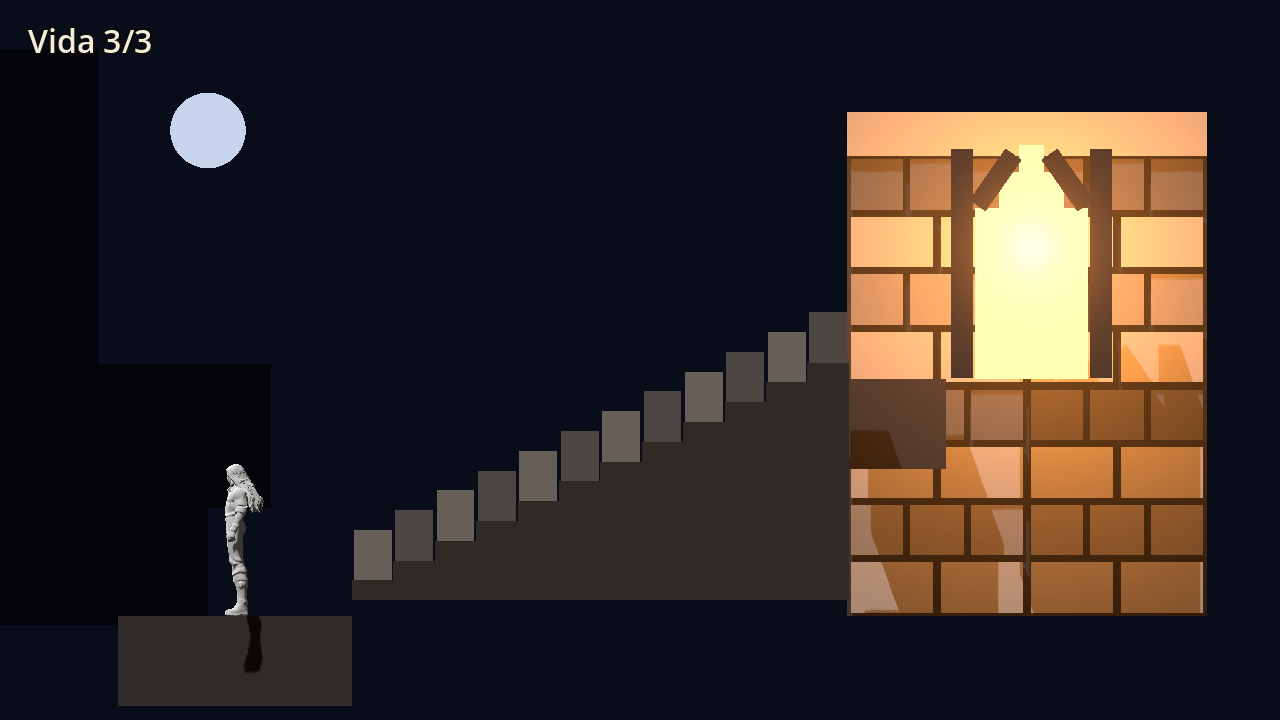
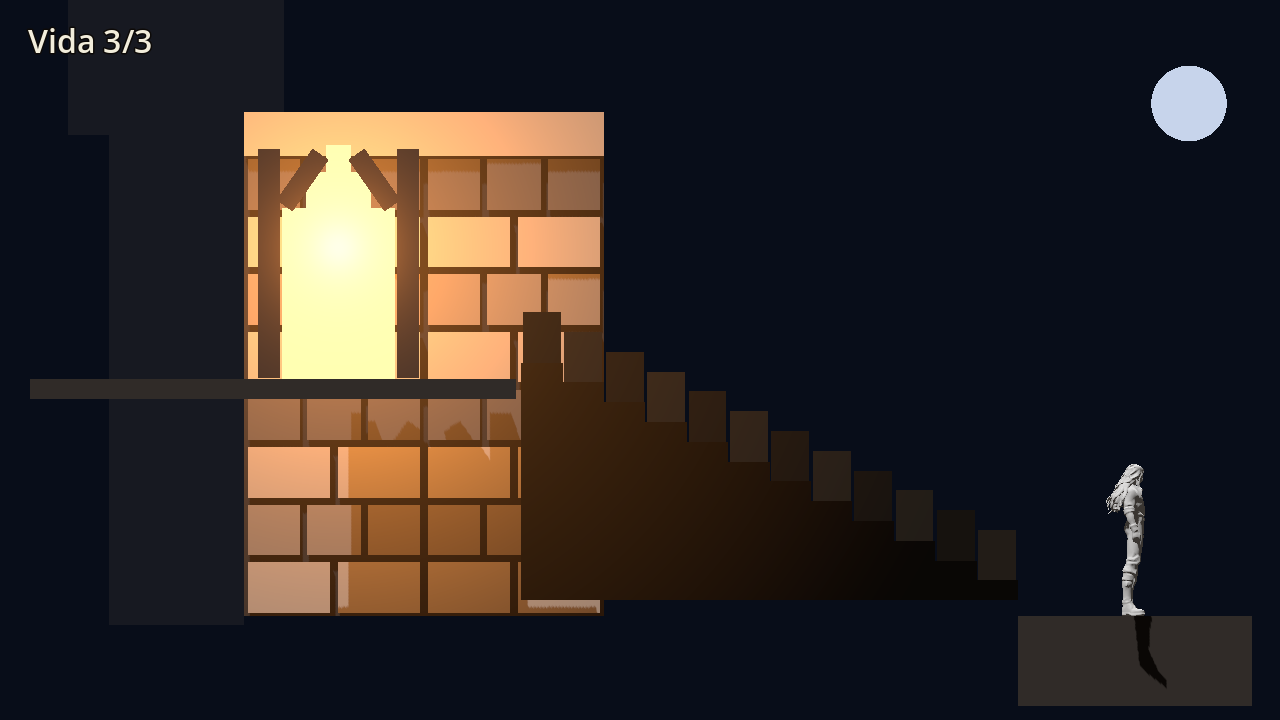
Inverte a escadaria do prólogo para nascer à direita e subir com a seta esquerda.
A prancha Bloodlines, de Revned, passa a orientar a composição da primeira área.

diff --git a/MD-usario/relatorios/15-escadaria-exterior.md b/MD-usario/relatorios/15-escadaria-exterior.md
@@ -2,11 +2,19 @@
 
 Data: 20/11/2026. Godot 4.7.2 e Blender 5.3.0. A cena para o F6 é `scenes/verification/15_escadaria_exterior.tscn`. O F6 do editor não foi pressionado. A janela abriu por script, em `tests/capturar_15.tscn`. O percurso rodou em `tests/verificar_escadaria_15.gd`, com `APPDATA` em `tests/dados_15`. O F5 continua em `scenes/verification/main.tscn`. A cena 14 continua sem a saída da esquerda.
 
+A atualização 15-B inverteu o sentido da subida a partir da prancha “Final Stage: Bloodlines”. O prompt está em `MD-usario/prompts/15b-referencia-do-prologo.md`.
+
+## Referência
+
+A prancha de consulta é `assets-exemple-2d/Final Stage - _Bloodlines_.png`. O mapa é de Revned, em [Revned’s Video Game Maps](https://revned77.github.io/games/SymphonyOfTheNight.html). Ela serviu para a disposição dos espaços. O vídeo da abertura não estava disponível: a imagem do disco continua ausente, como ficou registrado na etapa 15-A. As duas capturas abaixo são do Catlenight, não da prancha.
+
+A faixa de baixo pede a sequência exterior, patamar, salão e trono. Nesta entrega entram a escadaria e a passagem para o vestíbulo já existente. O salão do trono, o espaço superior alongado e o espaço superior em degraus ficam anotados em `docs/GAME_DESIGN.md`. A prancha não define como se entra neles.
+
 ## Onde a passagem cabe
 
-O piso do vestíbulo vai de X = −6 a X = 6, com o topo em Y = 0. A sacada ocupa X de −5,75 a −3,55 e o topo em Y = 2,350. Embaixo dela o corpo de 1,70 m passa. A cantaria fica em Z = −2,25 e não tem colisão. Não havia volume bloqueando a borda esquerda do piso.
+O piso do vestíbulo vai de X = −6 a X = 6, com o topo em Y = 0. A sacada ocupa X de −5,75 a −3,55 e o topo em Y = 2,350. A cena 15 acrescenta `Vestibulo/PisoDaEntrada`, de X = −9,80 a X = −5,90, no mesmo topo. Esse trecho só existe nesta cena. O vestíbulo da cena 14 não muda.
 
-A saída nova, só na cena 15, é `Vestibulo/SaidaEsquerda`, em (−5,65, 1,10, 0), com volume 0,80 × 2,40 × 1,40. A chegada de volta ao castelo é `Vestibulo/ChegadaDaEscadaria`, em (−4,20, 0, 0), à direita desse volume. A porta da sacada, `Vestibulo/VaoDaCapela/Passagem`, continua levando à Capela da Lua.
+A saída, só na cena 15, é `Vestibulo/SaidaEsquerda`, em (−5,35, 1,10, 0), com volume 0,80 × 2,40 × 1,40. A chegada vinda da escadaria é `Vestibulo/ChegadaDaEscadaria`, em (−7,40, 0, 0), à esquerda desse volume e sobre o piso novo. Segurar a seta esquerda depois de entrar afasta o corpo do gatilho. A volta é a seta direita, de encontro a esse volume. A porta da sacada continua levando à Capela da Lua.
 
 ## O lance
 
@@ -16,34 +24,42 @@ O editável é `arte-fonte/blender/escadaria_exterior.blend`, gerado por `arte-f
 - Comprimento horizontal: 5,520 m.
 - Inclinação: 25,56°.
 
-No Blender, X corre a subida, Z é a altura e o perfil da câmera fica em Y positivo, que o glTF leva para Z negativo no Godot. A mureta de cada degrau fica desse lado, atrás das pernas.
+No Blender, X corre a subida do molde, Z é a altura e o perfil da câmera fica em Y positivo, que o glTF leva para Z negativo no Godot. A mureta de cada degrau fica desse lado, atrás das pernas.
 
-O exportador grava só o lance em `assets/models/environment/exterior/lance_de_escada.glb`. A importação veio antes da medida final. A caixa local tem X de 0 a 5,520, Y de 0 a 3,200 e Z de −0,390 a −0,020. São 36 malhas e nenhum corpo físico. A face voltada para a câmera para em Z = −0,020, então as pernas em Z = 0 ficam na frente.
+O exportador grava só o lance em `assets/models/environment/exterior/lance_de_escada.glb`. A caixa local do GLB tem X de 0 a 5,520, Y de 0 a 3,200 e Z de −0,390 a −0,020. São 36 malhas e nenhum corpo físico. Na cena, `EscadariaExterior/Lance/Degraus` usa escala X = −1 e fica 0,180 m acima da origem, então a subida visível corre para −X e a face da câmera continua atrás das pernas.
 
 ## Quem desenha e quem sustenta
 
-A malha dos degraus é `EscadariaExterior/Lance/Degraus`. Esse nó instancia o GLB. Os blocos visíveis se chamam `Degrau_0` a `Degrau_11`. As juntas são `Junta_*` e a mureta é `Mureta_*`. O nó está 0,180 m acima da origem do lance, para o piso visível encontrar a bota.
+A malha dos degraus é `EscadariaExterior/Lance/Degraus`. Os blocos visíveis se chamam `Degrau_0` a `Degrau_11`. As juntas são `Junta_*` e a mureta é `Mureta_*`.
 
-A forma que sustenta o personagem é `EscadariaExterior/Lance/Rampa/Colisao`, um `BoxShape3D` de 6,119 × 0,400 × 2,400 m. A face de cima liga (0, 0) a (5,520, 2,640): é a mesma reta das quinas e encontra os dois patamares sem degrau. Os patamares são `PatamarInferior/Colisao` e `PatamarSuperior/Colisao`. A caixa do corpo tem 0,80 m de largura e o fundo horizontal. Na subida, o canto de baixo encosta na rampa e a origem dos pés fica cerca de 0,190 m acima dessa face. O deslocamento de 0,180 m da malha aproxima o piso visível dessa sola.
+A forma que sustenta o personagem é `EscadariaExterior/Lance/Rampa/Colisao`, um `BoxShape3D` de 6,119 × 0,400 × 2,400 m. A face de cima liga (0, 0) a (−5,520, 2,640), no espaço da sala. Os patamares são `PatamarInferior/Colisao`, à direita, e `PatamarSuperior/Colisao`, à esquerda. A caixa do corpo tem 0,80 m de largura. Na subida, a origem dos pés fica cerca de 0,190 m acima da face da rampa. O deslocamento de 0,180 m da malha aproxima o piso visível dessa sola.
 
-A passagem para o vestíbulo é `EscadariaExterior/Saida`. O destino é `Vestibulo` e a chegada é `Vestibulo/ChegadaDaEscadaria`. A volta usa `Vestibulo/SaidaEsquerda` e chega em `EscadariaExterior/Chegada`, no patamar de cima, em (6,350, 2,640, 0) local. A sala inteira está em X = −22, então esse marco fica em X = −15,650 no mundo.
+A passagem para o vestíbulo é `EscadariaExterior/Saida`, em X local = −7,55. O destino é `Vestibulo` e a chegada é `Vestibulo/ChegadaDaEscadaria`. A propriedade `sentido_x` vale −1: o volume só troca de sala quando o corpo anda para −X. Andar para a direita, na descida, atravessa o mesmo vão sem voltar ao vestíbulo. A volta chega em `EscadariaExterior/Chegada`, no patamar de cima, em (−9,050, 2,640, 0) local. A sala está em X = −22.
+
+O portão iluminado fica nesse patamar. A torre é `TorreDistante`, atrás do plano de jogo e à esquerda do vão. A lua é `Lua`, no céu à direita.
 
 ## O que aparece na tela
 
-O nascimento está em `MD-usario/relatorios/evidencias/15-primeira-vista-do-castelo.png`. Os pés ficam em X = −23,200, Y = 0,000 e Z = 0, com o perfil para +X. A câmera está em X = −18,80 e Y = 2,85, `Size` = 8, quadro 1280×720. Dá para achar o portão de imediato: é o vão amarelo no alto, à direita, sobre a cantaria. A linha dos degraus liga o patamar a esse vão. A lua e as silhuetas ficam atrás do plano de jogo.
+As duas imagens são capturas do Catlenight, em 1280×720. A referência de Revned não foi colada nelas.
 
-A subida está em `15-subida-ao-portao.png`. Os pés pararam em X = −20,060, Y = 1,120 e Z = 0. A sola aparece apoiada na quina do degrau, com a perna inteira na frente da mureta. O que ainda lê como bloco: a emenda do patamar de cima com a parede, à esquerda do vão, e as silhuetas distantes, que são caixas escuras no canto.
+O nascimento está em `MD-usario/relatorios/evidencias/15-primeira-vista-do-castelo.png`. Os pés ficam em X = −20,800, Y = 0,000 e Z = 0, com o perfil para −X. A câmera está em X = −26,20 e Y = 2,85, `Size` = 8. O corpo está no patamar inferior direito. A diagonal dos degraus sobe para a esquerda, o vão amarelo marca a entrada e a torre fica atrás dele. A lua está no céu, à direita. A mureta não cobre as botas.
+
+A subida está em `15-subida-ao-portao.png`. Os pés pararam em X = −24,225, Y = 1,256 e Z = 0, depois de soltar a seta esquerda. A sola aparece na quina do degrau, com a perna na frente da mureta. O fim da escada, já no patamar superior, ficou em X = −27,470 e Y = 2,640.
+
+O que ainda lê como bloco: a torre é uma caixa escura com uma cobertura larga, e a lua é um disco, não o crescente da prancha.
 
 ## O percurso
 
-“Novo jogo” deixa “Vida 3/3” e o mapa só com `escadaria_exterior`. Segurar a direita sobe. Soltar no meio mantém o corpo parado. Segurar de novo entra no vestíbulo numa única troca: pés em X = −4,142, Y = 0 e Z = 0, câmera em X = 0. O mapa então mostra a escadaria, o vestíbulo e a ligação `escadaria_exterior-vestibulo`. A esquerda volta numa única troca, com a câmera em X = −18,80 e os pés em Y = 2,640. A descida segue até Y = 0,400, ainda sobre a rampa.
+“Novo jogo” deixa “Vida 3/3” e o mapa só com `escadaria_exterior`. Segurar a esquerda sobe. Soltar no meio mantém o corpo parado, em X = −24,225 e Y = 1,256. Segurar de novo entra no vestíbulo numa única troca: pés em X = −7,458, Y = 0 e Z = 0, câmera em X = 0. O mapa então mostra a escadaria, o vestíbulo e a ligação `escadaria_exterior-vestibulo`.
 
-“Continuar” restaura o altar: pés em X = 47,950 e Y = 0, vida 3/3, salto duplo e as salas `vestibulo`, `galeria` e `capela_da_lua`. O exterior não entra nessa gravação. Sair da capela, descer da sacada e atravessar `Vestibulo/SaidaEsquerda` acrescenta `escadaria_exterior` e a ligação nova, sem apagar as três salas.
+A direita volta numa única troca. Os pés chegam em X = −30,992 e Y = 2,640, no patamar superior, com a câmera em X = −26,20. A mesma seta desce até o patamar de baixo, em X = −21,573 e Y = 0. Z permanece 0.
 
-As fases `primeira`, `continuar`, `novo_mapa` e `legado` de `tests/verificar_mapa_12.gd` deram `RESULTADO ok`, assim como `verificar_portal_14.gd`, `verificar_capela_10.gd` e `verificar_vestibulo_13.gd`.
+“Continuar” restaura o altar: pés em X = 47,950 e Y = 0, vida 3/3, salto duplo e as salas `vestibulo`, `galeria` e `capela_da_lua`. Sair da capela, descer da sacada e atravessar `Vestibulo/SaidaEsquerda` acrescenta `escadaria_exterior` e as ligações `escadaria_exterior-vestibulo`, `vestibulo-galeria` e `vestibulo-capela_da_lua`, sem apagar as três salas. A rota entre vestíbulo, galeria e capela continua jogável.
+
+Os testes do mapa, do portal, da capela e do vestíbulo não foram regravados nesta atualização: os arquivos desses sistemas não mudaram. O percurso e o “Continuar” da cena 15 deram `RESULTADO ok` depois da inversão.
 
 ## Exercício de cinco minutos
 
-Abra `scenes/verification/15_escadaria_exterior.tscn`. No menu **Depurar**, ligue **Formas de colisão visíveis**. Selecione `EscadariaExterior/Lance/Rampa/Colisao`. Rode a cena com F6, suba com a seta direita e solte no meio.
+Abra `scenes/verification/15_escadaria_exterior.tscn`. No menu **Depurar**, ligue **Formas de colisão visíveis**. Selecione `EscadariaExterior/Lance/Rampa/Colisao`. Rode a cena com F6. A seta esquerda sobe; a seta direita desce. Solte no meio para ver a parada.
 
-Na subida, a linha da rampa acompanha as quinas de `Lance/Degraus` e entrega os pés a `PatamarSuperior/Colisao` sem um lábio. Na descida, a mesma linha leva os pés até `PatamarInferior/Colisao`. A malha visível fica 0,180 m acima dessa linha: a sola encontra o piso desenhado, e a linha de depuração fica logo abaixo dele.
+Na subida, a linha da rampa acompanha as quinas de `Lance/Degraus` e entrega os pés a `PatamarSuperior/Colisao`. Na descida, a mesma linha leva os pés até `PatamarInferior/Colisao`. A malha visível fica 0,180 m acima dessa linha.

diff --git a/docs/ROADMAP.md b/docs/ROADMAP.md
@@ -317,12 +317,12 @@ O canto da tela do piloto 08 já mostra “Vida 3/3”. O restante da interface 
 
 | Critério | Status |
 | --- | --- |
-| “Novo jogo” começa no patamar, com o portão já no quadro | Verificado. Pés em X = −23,200, Y = 0,000 e Z = 0. Câmera em X = −18,80, `Size` = 8, 1280×720. Vida 3/3. O mapa mostra só `escadaria_exterior` |
-| Segurar a seta sobe, soltar no meio para, e a descida volta ao patamar | Verificado. Parada em X = −20,060, Y = 1,120 e Z = 0. A descida chegou a Y = 0,400 ainda sobre a rampa |
-| A travessia troca de sala uma vez em cada sentido | Verificado. Entrada em X = −4,142, Y = 0, câmera em X = 0. Volta em X = −15,708, Y = 2,640, câmera em X = −18,80. Z = 0 nos dois |
-| O mapa revela o vestíbulo ao entrar e conserva uma gravação antiga | Verificado. Depois da entrada: `escadaria_exterior` e `vestibulo`, com a ligação. “Continuar” abriu no altar, X = 47,950, com as três salas antigas; a visita acrescentou o exterior |
+| “Novo jogo” começa no patamar inferior direito, com o portão já no quadro | Verificado de novo em 20/11/2026, depois da inversão. Pés em X = −20,800, Y = 0,000 e Z = 0. Perfil para −X. Câmera em X = −26,20, `Size` = 8, 1280×720. Vida 3/3. O mapa mostra só `escadaria_exterior` |
+| A seta esquerda sobe, soltar no meio para, e a seta direita desce | Verificado. Parada em X = −24,225, Y = 1,256 e Z = 0. O fim da escada, no patamar superior, ficou em X = −27,470 e Y = 2,640. A descida chegou a X = −21,573 e Y = 0 |
+| A travessia troca de sala uma vez em cada sentido | Verificado. Entrada em X = −7,458, Y = 0, câmera em X = 0. Volta em X = −30,992, Y = 2,640, câmera em X = −26,20. Z = 0 nos dois. A saída do exterior só dispara andando para −X |
+| O mapa revela o vestíbulo ao entrar e conserva uma gravação antiga | Verificado de novo. Depois da entrada: `escadaria_exterior` e `vestibulo`, com a ligação. “Continuar” abriu no altar, X = 47,950, com as três salas antigas; a visita acrescentou o exterior e manteve `vestibulo-galeria` e `vestibulo-capela_da_lua` |
 | O lance importado não cria colisão | Verificado depois da importação. 36 malhas, 0 corpos físicos. A caixa vai de X = 0 a 5,520, Y = 0 a 3,200 e Z = −0,390 a −0,020 |
-| Testes do mapa, do portal, da capela e do vestíbulo | Verificado. As fases `primeira`, `continuar`, `novo_mapa` e `legado` de `verificar_mapa_12.gd`, mais `verificar_portal_14.gd`, `verificar_capela_10.gd` e `verificar_vestibulo_13.gd`, deram `RESULTADO ok` |
+| A rota vestíbulo, galeria e capela continua no mapa | Verificado nesta atualização pelo “Continuar” da cena 15. As ligações `vestibulo-galeria` e `vestibulo-capela_da_lua` permaneceram. Os scripts 12, 14, 10 e 13 não foram repetidos |
 | F6 no editor | Pendente. A cena executada foi `scenes/verification/15_escadaria_exterior.tscn`, aberta pelo teste, sem o atalho do editor |
 
 ## 15-A — Referência visual da abertura
@@ -335,7 +335,20 @@ O canto da tela do piloto 08 já mostra “Vida 3/3”. O restante da interface 
 | O programa abre | Verificado. Executável `D:\Progr\csotn\sotn.exe`, janela “SymphonyRecomp v1.2.0p” |
 | A imagem NTSC norte-americana está disponível e o CUE aponta para as faixas reais | Pendente. Nenhuma imagem foi encontrada. `system.discPath` ficou vazio |
 | Três quadros da abertura, com a altura de Richter medida na área de jogo | Pendente. O jogo não chegou ao prólogo |
-| Três decisões da escadaria, sem alterar a cena 15 | Verificado no relatório. A cena 15 existe. A comparação com Richter espera os quadros do jogo |
+| Três decisões da escadaria, sem alterar a cena 15 | Verificado no relatório da 15-A, naquele momento. A atualização 15-B, pedida depois, alterou o sentido e o enquadramento da cena 15 |
+
+## 15-B — Referência do prólogo
+
+**Status: concluída na cena de verificação.** Conferida no Godot 4.7.2 em 20/11/2026. O prompt está em `MD-usario/prompts/15b-referencia-do-prologo.md`. O relatório da escadaria foi atualizado. O F6 do editor não foi pressionado. As janelas abriram por `tests/capturar_15.tscn`.
+
+| Critério | Status |
+| --- | --- |
+| “Final Stage: Bloodlines” registrada como referência do prólogo | Verificado. A nota está em `docs/GAME_DESIGN.md`. A prancha de consulta é `assets-exemple-2d/Final Stage - _Bloodlines_.png`, mapeada por Revned |
+| Nascimento no patamar inferior direito e subida com a seta esquerda | Verificado. Pés iniciais em X = −20,800 e Y = 0,000. Fim da escada em X = −27,470 e Y = 2,640. Z = 0 |
+| Diagonal, torre, lua e o vão de entrada no mesmo quadro | Verificado nas capturas do Catlenight. A torre é uma caixa e a lua é um disco. O vídeo da abertura não estava disponível |
+| Ida e volta pelos controles, com a descida para a direita | Verificado. Uma troca em cada sentido. A volta deixa os pés em Y = 2,640 e a direita desce até Y = 0 |
+| “Continuar” restaura o altar e o mapa conserva a rota antiga | Verificado. Altar em X = 47,950. A visita ao exterior manteve vestíbulo, galeria e capela |
+| Salão do trono e os dois espaços superiores | Anotados para etapas futuras. A prancha não define o acesso |
 
 ## Estudo futuro — Progressão
 

diff --git a/CLAUDE.md b/CLAUDE.md
@@ -29,7 +29,7 @@ Unidades do Godot são metros. O tamanho ortográfico da câmera também está e
 
 A etapa 01 entregou a cena de verificação. A etapa 02 entregou o primeiro controlador: o jogador cai, anda em X, pula e permanece em Z = 0. A etapa 03 entregou o primeiro arco de pedra, modelado no Blender, importado em GLB e atravessável por esse jogador. A etapa 04 trocou o bloco vermelho pelo manequim de 1,70 m. O nó `Visual` aponta o perfil para +X ou para −X conforme a seta, e conserva a última direção quando a seta é solta.
 
-O manequim da cena principal continua sem esqueleto. O piloto da etapa 04-C usa o esqueleto e a corrida do Mixamo. A etapa 04-D deixou esse piloto mais legível: luz mais baixa, ambiente suave e o pilar dianteiro transparente só enquanto cobre o corpo. A etapa 05 ligou duas salas na cena de verificação: o vestíbulo, reconhecido pelo arco, e a galeria, com plataforma elevada e duas colunas ao fundo. Um único jogador atravessa as duas e, se cair na galeria, reaparece na galeria. A etapa 06 colocou um boneco de treino na galeria e o primeiro golpe na tecla X. A lâmina provisória usa a última direção olhada. Um acerto deixa o boneco amarelo por um instante. A etapa 07 colocou a sentinela de pedra na galeria: ela patrulha em X, pode ser pulada e cai com três golpes. A etapa 08 ligou a vida nesse encontro: a sentinela viva tira um ponto ao encostar, o canto da tela mostra “Vida 3/3” e, em zero, o jogador volta ao retorno da sala. A etapa 09 colocou uma sacada no vestíbulo e uma relíquia na galeria: o salto simples não alcança a sacada; depois da relíquia, Espaço no ar dá o segundo impulso. A etapa 10 transformou o vão iluminado dessa sacada numa passagem: com os pés apoiados diante dela, a seta para cima entra na Capela da Lua e o mesmo toque devolve o jogador à sacada. A etapa 11 colocou um altar ao lado do vitral: um toque grava a vida, o salto duplo e a sentinela num arquivo, e outra execução pode continuar dali. A etapa 12 desenha o caminho já percorrido: M abre o mapa, a galeria aparece ao chegar nela e a capela só aparece depois da primeira entrada. A etapa 13 vestiu o vestíbulo com módulos de cantaria feitos no Blender: parede, pilastra e faixa do piso, sem trocar a colisão que sustenta os pés. A etapa 14 trocou a moldura retangular da sacada por um portal ogival: a ponta se lê do chão e, na soleira, a cabeça e o tronco continuam visíveis. A etapa 15 abre o jogo novo ao pé de uma escadaria, fora do castelo: a seta direita sobe até o portão e a mesma passagem devolve o jogador ao patamar. A animação definitiva da espada, a roupa e o equipamento ficam para as próximas tarefas.
+O manequim da cena principal continua sem esqueleto. O piloto da etapa 04-C usa o esqueleto e a corrida do Mixamo. A etapa 04-D deixou esse piloto mais legível: luz mais baixa, ambiente suave e o pilar dianteiro transparente só enquanto cobre o corpo. A etapa 05 ligou duas salas na cena de verificação: o vestíbulo, reconhecido pelo arco, e a galeria, com plataforma elevada e duas colunas ao fundo. Um único jogador atravessa as duas e, se cair na galeria, reaparece na galeria. A etapa 06 colocou um boneco de treino na galeria e o primeiro golpe na tecla X. A lâmina provisória usa a última direção olhada. Um acerto deixa o boneco amarelo por um instante. A etapa 07 colocou a sentinela de pedra na galeria: ela patrulha em X, pode ser pulada e cai com três golpes. A etapa 08 ligou a vida nesse encontro: a sentinela viva tira um ponto ao encostar, o canto da tela mostra “Vida 3/3” e, em zero, o jogador volta ao retorno da sala. A etapa 09 colocou uma sacada no vestíbulo e uma relíquia na galeria: o salto simples não alcança a sacada; depois da relíquia, Espaço no ar dá o segundo impulso. A etapa 10 transformou o vão iluminado dessa sacada numa passagem: com os pés apoiados diante dela, a seta para cima entra na Capela da Lua e o mesmo toque devolve o jogador à sacada. A etapa 11 colocou um altar ao lado do vitral: um toque grava a vida, o salto duplo e a sentinela num arquivo, e outra execução pode continuar dali. A etapa 12 desenha o caminho já percorrido: M abre o mapa, a galeria aparece ao chegar nela e a capela só aparece depois da primeira entrada. A etapa 13 vestiu o vestíbulo com módulos de cantaria feitos no Blender: parede, pilastra e faixa do piso, sem trocar a colisão que sustenta os pés. A etapa 14 trocou a moldura retangular da sacada por um portal ogival: a ponta se lê do chão e, na soleira, a cabeça e o tronco continuam visíveis. A etapa 15 abre o jogo novo ao pé de uma escadaria, fora do castelo: o nascimento fica no patamar inferior direito, a seta esquerda sobe até o portão e a volta devolve o jogador ao patamar superior, de onde a seta direita desce. A animação definitiva da espada, a roupa e o equipamento ficam para as próximas tarefas.
 
 A etapa 04-A instalou o Hunyuan3D-2mini fora da pasta do jogo e gerou a geometria do exemplo oficial. A interface local abre por `D:\Tools\Hunyuan3D\abrir_hunyuan.bat`, em `http://127.0.0.1:8080`, e gera quantos moldes forem precisos. Ela produz geometria; a textura continua desligada nesta placa de 8 GB.
 

diff --git a/MD-usario/prompts/15b-referencia-do-prologo.md b/MD-usario/prompts/15b-referencia-do-prologo.md
@@ -1,0 +1,19 @@
+Atualize a Tarefa 15 do Catlenight em D:\Progr\catlenight com a referência visual que coloquei no projeto.
+
+A imagem está em:
+assets-exemple-2d\Final Stage - _Bloodlines_.png
+
+A fonte é Revned’s Video Game Maps:
+https://revned77.github.io/games/SymphonyOfTheNight.html
+
+1. Registre a referência. Salve este prompt em MD-usario/prompts/15b-referencia-do-prologo.md. Abra a imagem local e registre em docs/GAME_DESIGN.md que “Final Stage: Bloodlines” é a referência de composição e percurso para a primeira área, o prólogo. Use o mapa para estudar a disposição dos espaços e o vídeo da abertura, quando disponível, para estudar o que o jogador vê durante o movimento. Mantenha o PNG como material de consulta. Construa o cenário jogável com peças 3D do Catlenight.
+
+2. Corrija o sentido da escadaria. No primeiro quadro, o protagonista nasce no patamar inferior direito. Segurar a seta esquerda faz o corpo andar em −X e ganhar altura em Y até o patamar superior esquerdo. A seta direita permite descer. Mantenha o plano de jogo em Z = 0. Se a cena 15 já existir, aproveite os modelos, a rampa e os testes. Ajuste a montagem, os marcadores e as expectativas dos testes que dependiam do sentido anterior.
+
+3. Organize a composição. Use a faixa inferior do mapa como guia para a sequência exterior → patamar → salão → trono. Nesta entrega, trabalhe na escadaria e na passagem para o interior já existente. No exterior, enquadre a diagonal dos degraus, uma torre ao fundo e a lua no céu. No patamar superior, deixe legível o ponto em que o protagonista sai do céu aberto e entra no castelo. Registre o salão do trono e os dois espaços superiores mostrados na prancha como referências para etapas futuras. A imagem sozinha não determina como se acessam esses espaços.
+
+4. Confira as ligações existentes. A chegada ao vestíbulo deve deixar os pés no piso e fora do gatilho de retorno. Faça a ida e a volta pelos controles. Confira que voltar ao exterior coloca o jogador no patamar superior e que é possível descer para a direita. Verifique o mapa com M: a ligação da escadaria precisa ser compreensível sem quebrar a rota já jogável entre vestíbulo, galeria e capela.
+
+5. Valide a partir de “Novo jogo”. Capture a vista do nascimento e um quadro no meio da subida, ambos em 1280×720. Registre X e Y dos pés no começo e no fim da escada. Confira que a subida acontece só com a seta esquerda, que soltar a tecla permite parar e que o corrimão deixa as botas visíveis. Use a pasta isolada de testes para verificar também que “Continuar” segue restaurando a partida no altar.
+
+Atualize o relatório da Tarefa 15 e o roadmap com o que foi realmente executado. Identifique as capturas do Catlenight e dê crédito a Revned pela referência. Faça commit e push das alterações da tarefa conforme o CLAUDE.md. Na resposta, informe a cena para F6, o caminho da captura inicial e o link completo do commit.

diff --git a/docs/GAME_DESIGN.md b/docs/GAME_DESIGN.md
@@ -31,6 +31,18 @@ Em uma sala só, o corpo provisório anda em X, pula, cai e para no chão com co
 
 A cena `scenes/verification/main.tscn` é o cenário desse teste futuro. Hoje ela só deixa o chão, o bloco, a luz e a câmera visíveis e parados.
 
+## Prólogo
+
+A primeira área é o prólogo: o jogador nasce fora do castelo e sobe até a entrada. A referência de composição e de percurso é a prancha “Final Stage: Bloodlines”, mapeada por Revned em [Revned’s Video Game Maps](https://revned77.github.io/games/SymphonyOfTheNight.html). A cópia de consulta fica em `assets-exemple-2d/Final Stage - _Bloodlines_.png`. Ela estuda a disposição dos espaços. O que o jogador vê enquanto anda continua dependendo do vídeo da abertura, quando essa imagem estiver disponível. O cenário jogável é feito com as peças 3D do Catlenight.
+
+A faixa de baixo da prancha organiza a sequência exterior, patamar, salão e trono. Nesta etapa só a escadaria e a passagem para o vestíbulo estão montadas. O nascimento fica no patamar inferior direito. A seta esquerda sobe em −X até o patamar superior esquerdo, onde o vão iluminado marca a troca do céu aberto pelo interior. A seta direita desce.
+
+Ficam anotados para etapas futuras, sem caminho definido pela prancha:
+
+- o salão do trono, a sala larga com colunas, cortinas e a mesa ao centro;
+- o espaço superior alongado, com as figuras repetidas e as luzes;
+- o espaço superior em degraus, o lance quebrado entre esse corredor e o salão.
+
 ## Fora desta etapa
 
 Movimento, combate, inimigos, várias salas, interface, animação e áudio não fazem parte da fundação.

diff --git a/README.md b/README.md
@@ -22,7 +22,7 @@ O piloto do vestíbulo de pedra é `scenes/verification/13_vestibulo_do_castelo.
 
 O piloto do portal da sacada é `scenes/verification/14_portal_da_sacada.tscn`. Ele reaproveita a cena 13 e troca a moldura retangular por `arte-fonte/blender/portal_da_sacada.blend`. O vão livre na soleira tem 1,12 m. A ponta fica 2,54 m acima dos pés. A parede lisa da sacada fica oculta, e a cantaria de trás aparece no lugar. A laje, o detector e a volta da capela não mudam. A cena 13 continua com o retângulo, para comparar.
 
-O piloto da escadaria é `scenes/verification/15_escadaria_exterior.tscn`. Ele reaproveita a cena 14. “Novo jogo” começa no patamar de baixo, com “Vida 3/3”, e o portão iluminado já aparece acima e à direita. A seta direita sobe a rampa e atravessa `EscadariaExterior/Saida` até o vestíbulo. A seta esquerda volta pelo mesmo caminho. “Continuar” segue abrindo no altar da capela. A cena 14 continua sem essa saída, para o exercício do portal.
+O piloto da escadaria é `scenes/verification/15_escadaria_exterior.tscn`. Ele reaproveita a cena 14. “Novo jogo” começa no patamar inferior direito, com “Vida 3/3”. A seta esquerda sobe a rampa até o portão, no alto à esquerda, e atravessa `EscadariaExterior/Saida` até o vestíbulo. A volta deixa o jogador no patamar superior; a seta direita desce. “Continuar” segue abrindo no altar da capela. A cena 14 continua sem essa saída, para o exercício do portal.
 
 ## Versão do Godot
 
